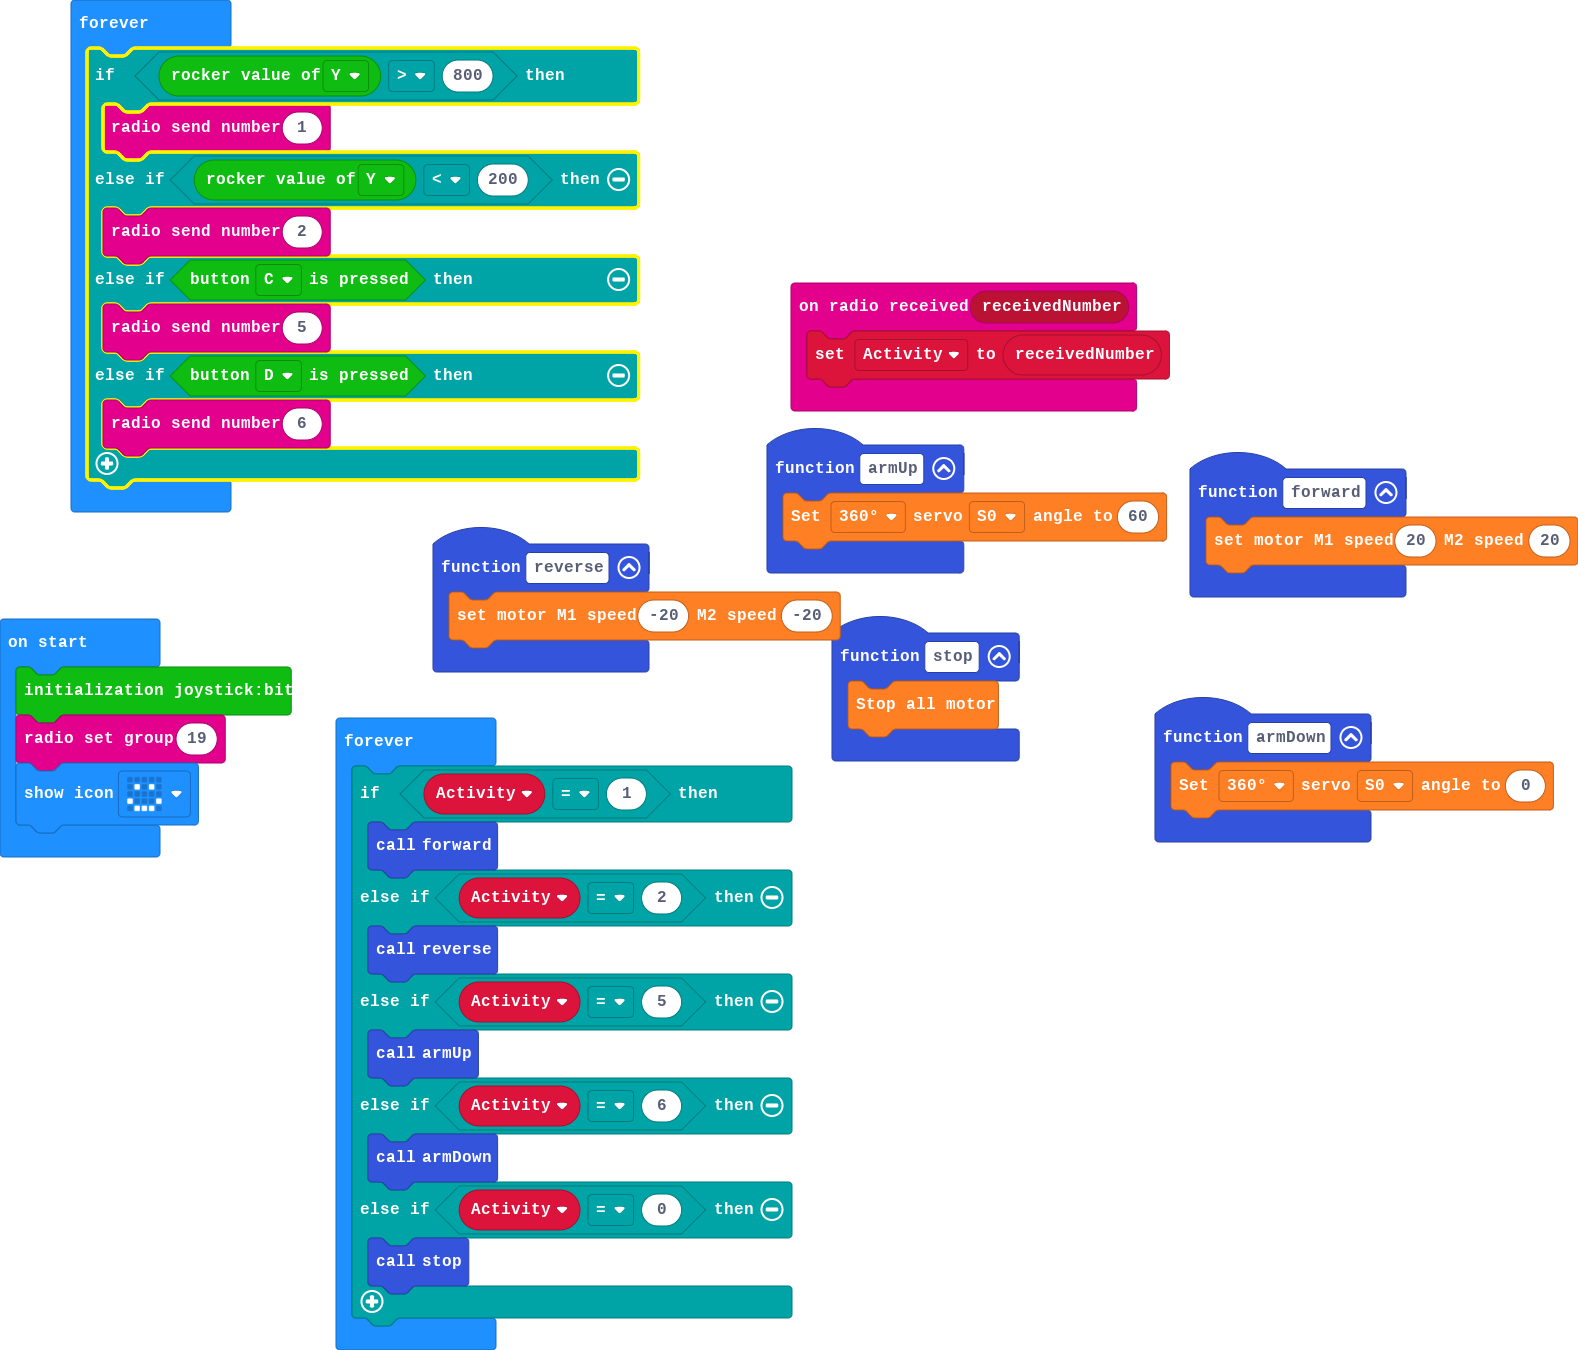
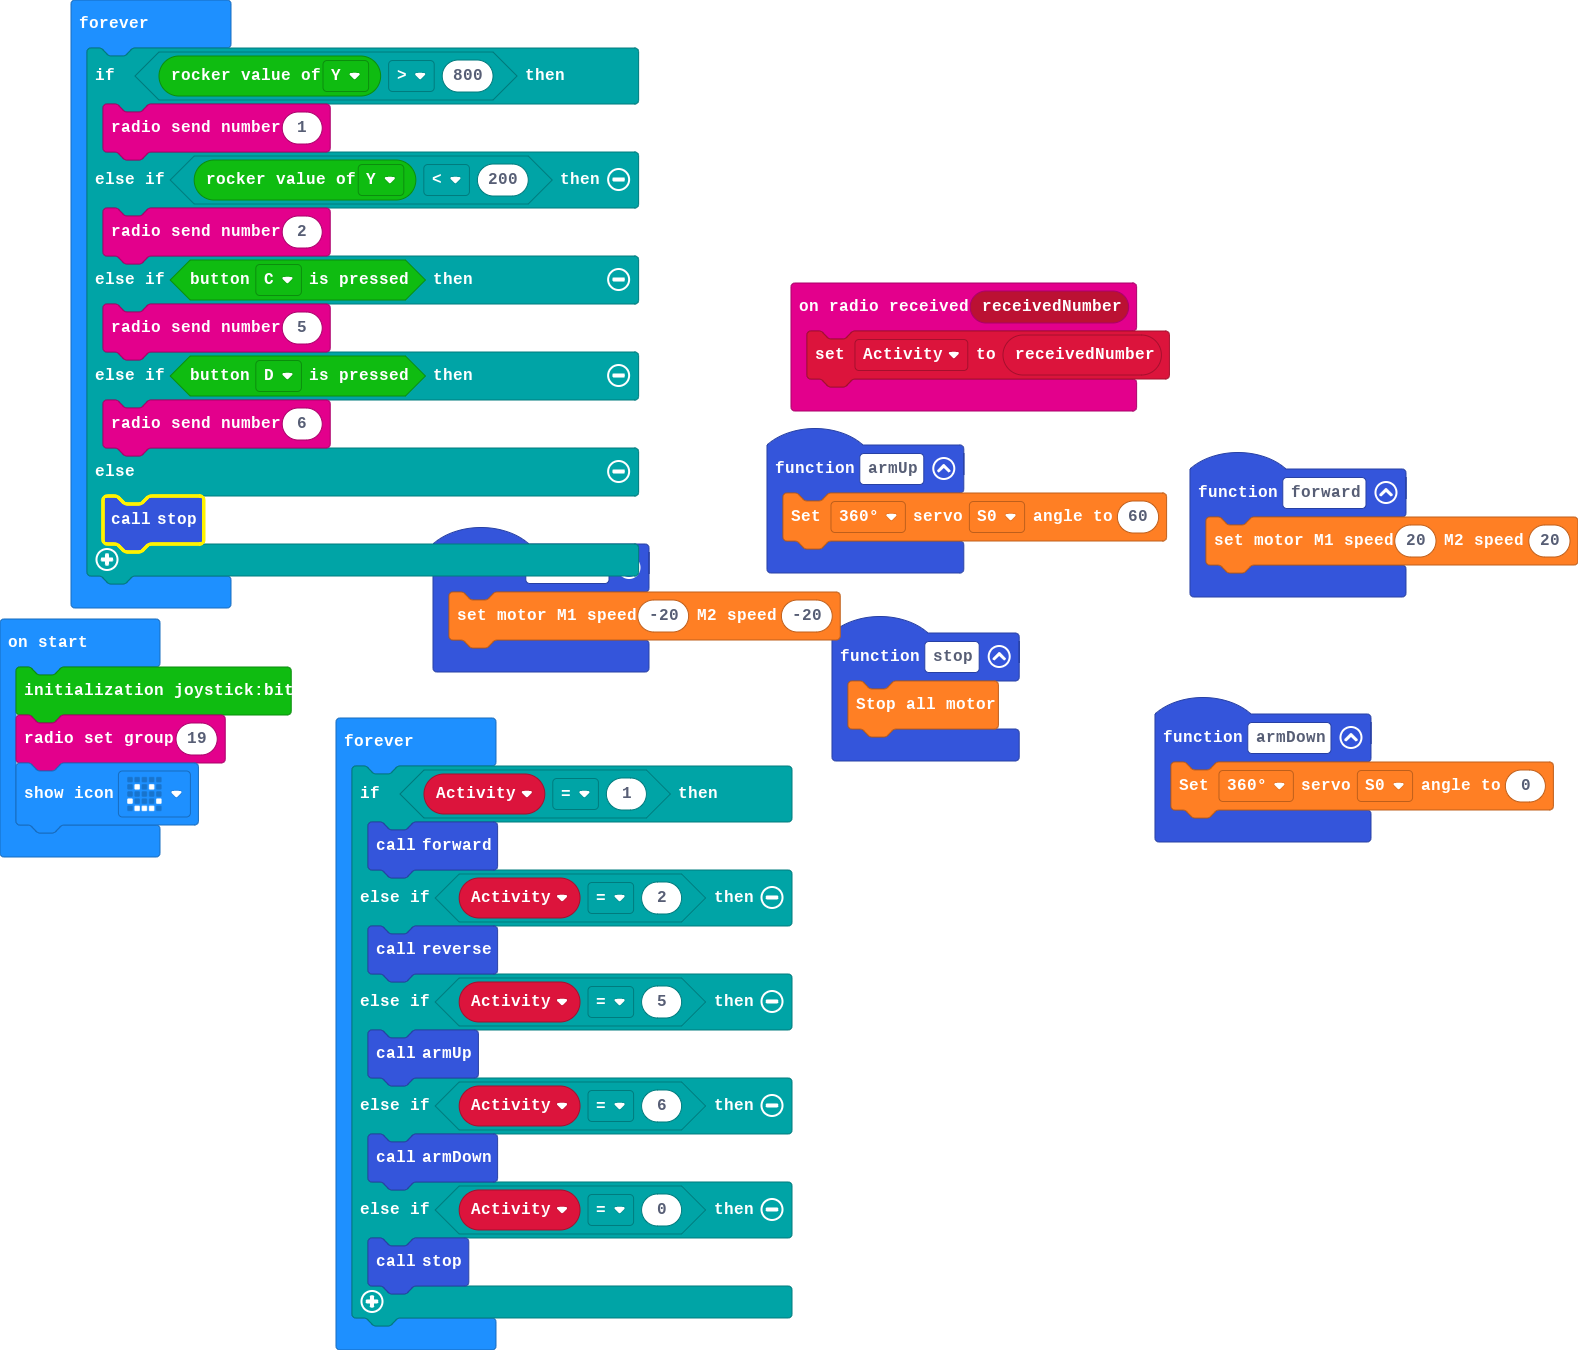
Update main.blocks, main.ts

Changed region(s): [[0.0311, 0.3111, 0.4037, 0.4667], [0.0621, 0.0311, 0.0932, 0.1244]]

diff --git a/main.ts b/main.ts
@@ -29,6 +29,8 @@ basic.forever(function () {
         radio.sendNumber(5)
     } else if (joystickbit.getButton(joystickbit.JoystickBitPin.P13)) {
         radio.sendNumber(6)
+    } else {
+        stop()
     }
 })
 basic.forever(function () {
